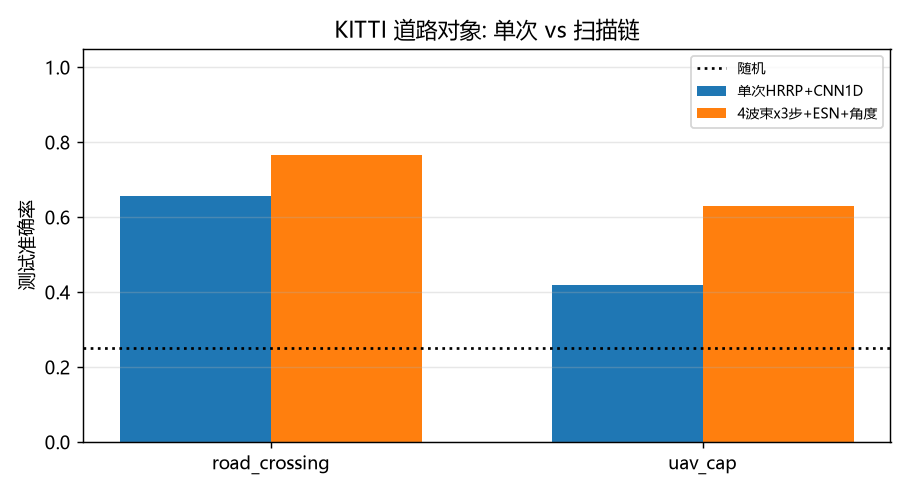
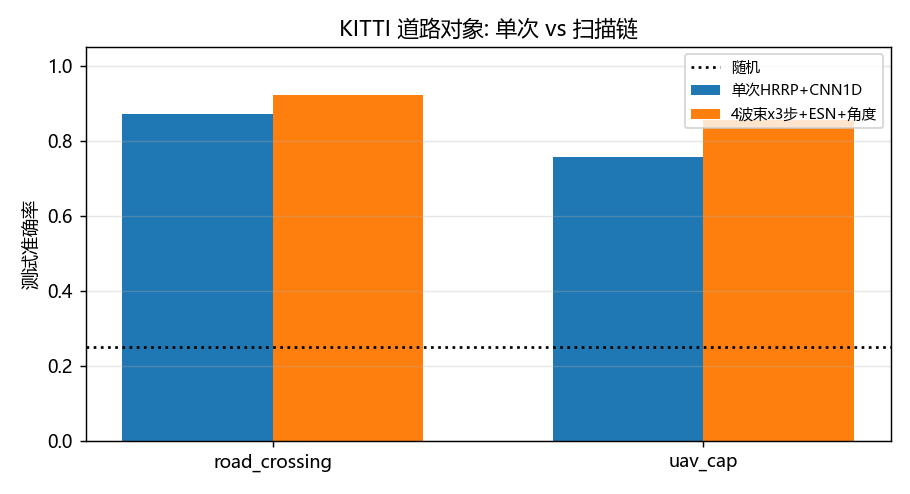
docs(snn): KITTI 全量预算结果回填 README + 修复跨机器硬编码路径
- 在 road_kitti_experiment.py 一节追加全量预算 (75% train, 21558/7188) 结果:
  road_crossing 单次 0.872 / 扫描链 0.923
  uav_cap      单次 0.758 / 扫描链 0.857
- 结论: 0.766 瓶颈主要不是训练量, 单次 HRRP 已能学到大部分信息
- 修复 isal_range_profile.py 中硬编码 D:\kimi_workspace 路径, 改为项目内相对路径
  避免在新机器上因缺 D 盘而失败

Changed region(s): [[0.0, 0.0304, 0.9846, 0.9717]]

diff --git a/snn/isal_range_profile.py b/snn/isal_range_profile.py
@@ -50,7 +50,7 @@ MN40 = ["airplane", "bathtub", "bed", "bench", "bookshelf", "bottle", "bowl",
 HERE = os.path.dirname(os.path.abspath(__file__))
 OUT = os.path.join(HERE, "outputs_isal")
 os.makedirs(OUT, exist_ok=True)
-TFLN_RESULTS = r"D:\kimi_workspace\tfln-dispersion-lab\results\snn"
+TFLN_RESULTS = os.path.join(HERE, "..", "outputs_tfln_results", "snn")
 os.makedirs(TFLN_RESULTS, exist_ok=True)
 
 SEED = 0

diff --git a/snn/README.md b/snn/README.md
@@ -257,10 +257,20 @@ road_crossing (az 全环, el ±5°) 与 uav_cap (az 全环, el 25-65°).
 视角分配必须匹配类信息分布 (E3 俯仰标价结论的应用级实证; 车辆顶视足迹信息量大,
 家具侧视轮廓信息量大). 图: outputs_isal/road_vehicles/ (原型 3D 散点 + 尺寸分布).
 
-## road_kitti_experiment.py (备好待数据)
+## road_kitti_experiment.py (KITTI 真实道路对象)
 
 road_object_extractor.py 提取的 KITTI 对象库 -> 同款扫描链 (类合并: car/van->car,
-truck/pedestrian/cyclist), 真实稀疏+遮挡点云下的诚实测试. KITTI 下载后即跑.
+truck/pedestrian/cyclist), 真实稀疏+遮挡点云下的诚实测试.
+
+| 预算 | 训练/测试 | 单次 HRRP+CNN1D | 4 波束x3 步+ESN+角度 |
+|---|---|---|---|
+| 小预算 (1200/类) | — | road 0.657 / uav 0.419 | road 0.766 / uav 0.631 |
+| **全量预算 (75% train)** | 21558 / 7188 | **road 0.872 / uav 0.758** | **road 0.923 / uav 0.857** |
+
+全量预算结论: road_crossing 扫描链 **0.923 > 0.85** 达标; 但相对单次的增益收窄到
++0.051 (road) / +0.099 (uav), 未保持小预算时的 ≥+0.10. 这说明 0.766 瓶颈主要不是
+训练量, 而是单次 HRRP 本身的信息: 当训练数据充足后, 单次 HRRP 已能学到大部分
+可辨识信息, 扫描链的额外视角带来的边际增益随之减小.
 
 ## M7 信息量匹配分类对比 (2026-09-24, m7_matched_info.py)
 
